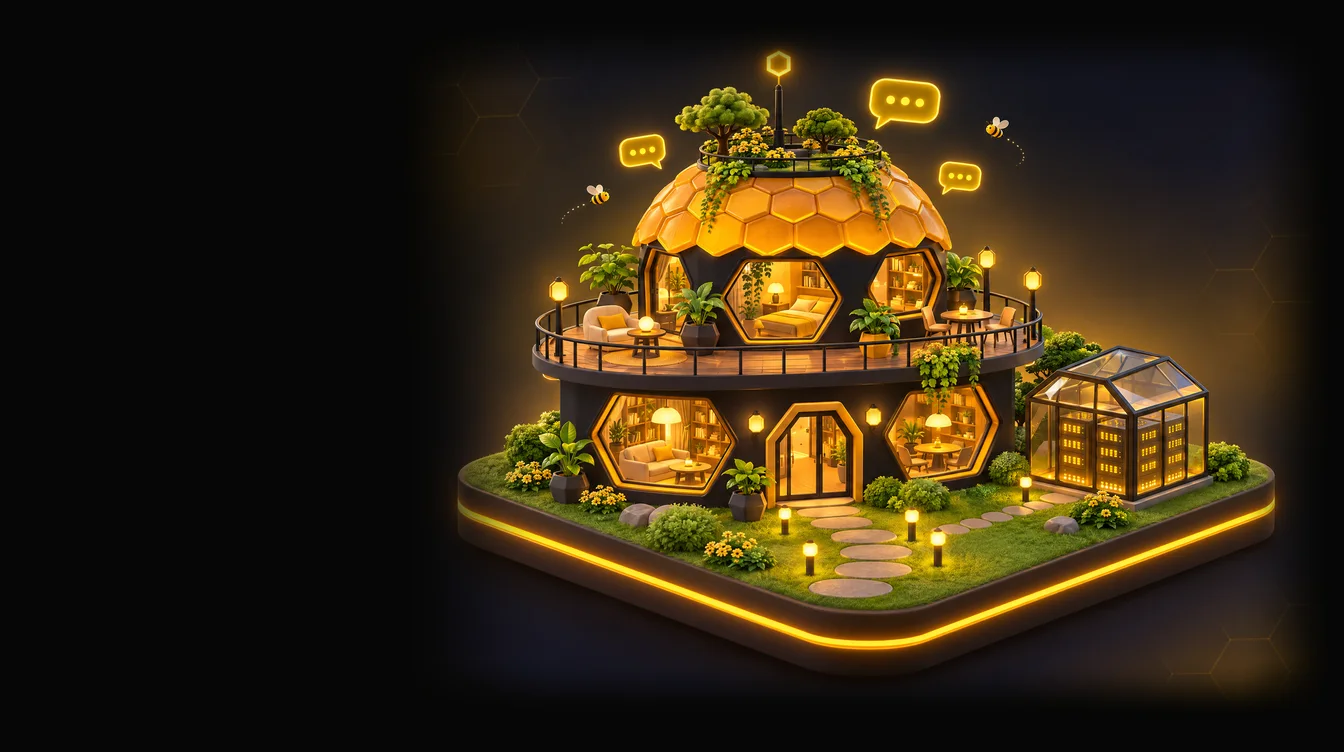
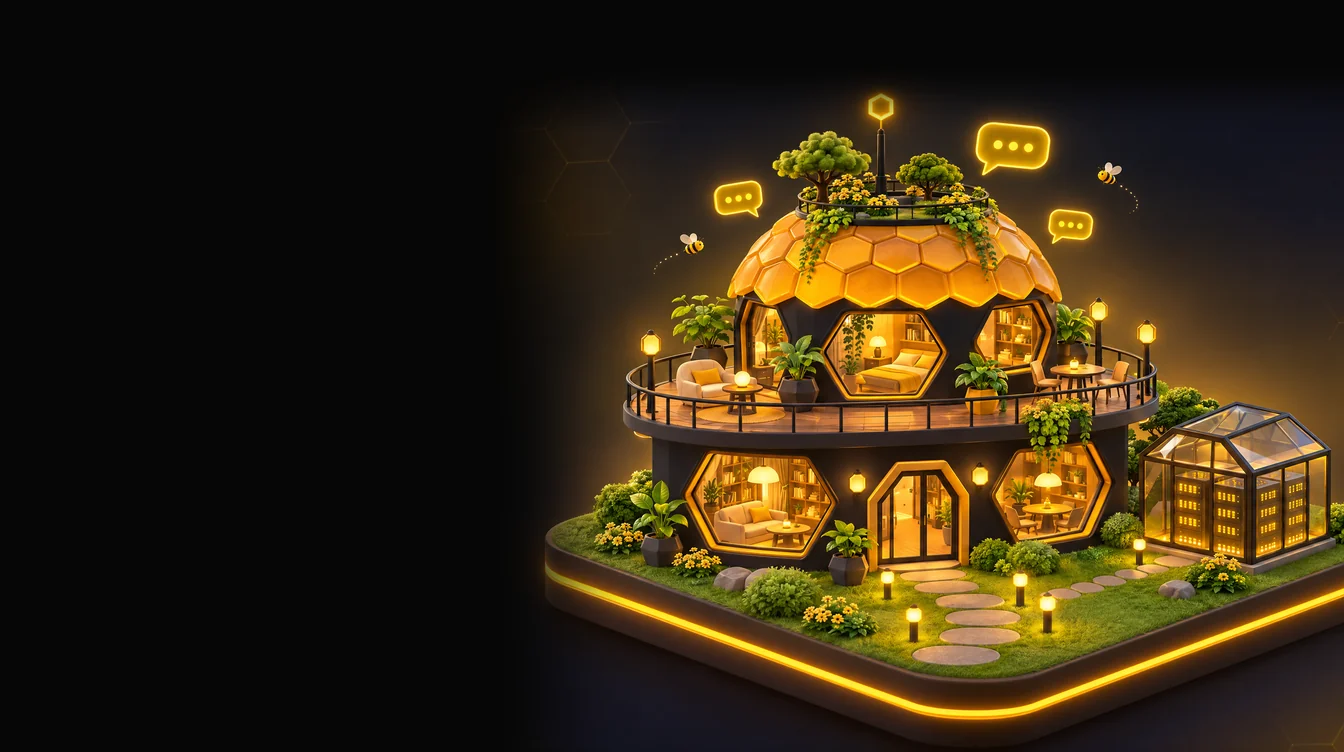
Site: Dome House header placed like the old one (house on the right, fills the height)

diff --git a/site/index.html b/site/index.html
@@ -564,17 +564,17 @@ section > h2:not(.lv-title)::before, .new-head h2::before, .status-head h2::befo
 .band-art { border-radius: 16px; overflow: hidden; }
 .band-art .win { border-radius: 16px; }
 /* Dome House hero (28 Nov): effects moved onto the new picture */
-.scene-e .fx.beacon{left:55%;top:3.4%;width:5.8%;height:10%}
-.scene-e .fx.home{left:46.8%;top:12%;width:24%;height:34%}
-.scene-e .fx.m1{left:44.45%;top:14.15%}
-.scene-e .fx.m2{left:64.05%;top:7.55%}
-.scene-e .fx.m3{left:68.15%;top:17.75%}
+.scene-e .fx.beacon{left:62.45%;top:8.91%;width:6.07%;height:10.47%}
+.scene-e .fx.home{left:53.86%;top:17.92%;width:25.13%;height:35.6%}
+.scene-e .fx.m1{left:51.4%;top:20.17%}
+.scene-e .fx.m2{left:71.93%;top:13.26%}
+.scene-e .fx.m3{left:76.22%;top:23.94%}
+.scene-e .set2 .pin.svc { flex-direction: row-reverse; transform: translate(calc(-100% + 4px), -50%); text-align: right; }
+.scene-e .set2 .pin.svc s { background: linear-gradient(270deg, rgba(255,215,110,.85), rgba(255,215,110,.15)); }
 @media (max-width: 860px) {
-  .scene-e .sc-stage { width: 150%; margin-left: -45%; }
+  .scene-e .sc-stage { width: 150%; margin-left: -50%; }
   .scene-e .set2 .pin.live:not(.l) { flex-direction: row; transform: translate(-4px, -50%); text-align: left; }
   .scene-e .set2 .pin.live:not(.l) s { background: linear-gradient(90deg, rgba(255,215,110,.85), rgba(255,215,110,.15)); }
-  .scene-e .set2 .pin.svc { flex-direction: row-reverse; transform: translate(calc(-100% + 4px), -50%); text-align: right; }
-  .scene-e .set2 .pin.svc s { background: linear-gradient(270deg, rgba(255,215,110,.85), rgba(255,215,110,.15)); }
 }
 </style>
 <style id="polish-mock">
@@ -655,7 +655,7 @@ section>h2,.new-head h2,.status-head h2{font-size:clamp(28px,3.2vw,38px);letter-
         <a class="btn" href="#services"><svg aria-hidden="true"><use href="#i-code"/></svg>What it does</a>
         <a class="btn chat-btn" href="https://chat.beeircd.org/"><span class="chat-dot" aria-hidden="true"></span>Chat with us</a>
       </div>
-    </div><div class="crop"><div class="sc-stage"><img class="art" src="art/dome.webp" alt="A night diorama: a honey-dome server house on a floating island with a glowing gold edge, a glass server room, bees and chat bubbles" width="1344" height="752"><div class="fx home"></div><div class="fx beacon"></div><div class="fx glow m1"></div><div class="fx glow m2"></div><div class="fx glow m3"></div><span class="set2"><a class="pin " style="--x:69.2%;--y:29%" href="#services"><i></i><s></s><span><b>Your server</b><em data-live="v0">BeeIRCd 1.6.0</em></span></a><a class="pin svc" style="--x:86%;--y:47%" href="#services"><i></i><s></s><span><b>Services</b></span></a><a class="pin live" style="--x:70%;--y:12%" href="#live"><i></i><s></s><span><b>Messages</b><em data-live="all">97 people online</em></span></a><a class="pin live l" style="--x:57.9%;--y:6.5%" href="#live"><i></i><s></s><span><b>Live beacon</b><em data-live="link">linked</em></span></a></span></div></div></div>
+    </div><div class="crop"><div class="sc-stage"><img class="art" src="art/dome.webp" alt="A night diorama: a honey-dome server house on a floating island with a glowing gold edge, a glass server room, bees and chat bubbles" width="1344" height="752"><div class="fx home"></div><div class="fx beacon"></div><div class="fx glow m1"></div><div class="fx glow m2"></div><div class="fx glow m3"></div><span class="set2"><a class="pin " style="--x:77.32%;--y:35.72%" href="#services"><i></i><s></s><span><b>Your server</b><em data-live="v0">BeeIRCd 1.6.0</em></span></a><a class="pin svc" style="--x:94.91%;--y:54.57%" href="#services"><i></i><s></s><span><b>Services</b></span></a><a class="pin live" style="--x:78.16%;--y:17.92%" href="#live"><i></i><s></s><span><b>Messages</b><em data-live="all">97 people online</em></span></a><a class="pin live l" style="--x:65.49%;--y:12.16%" href="#live"><i></i><s></s><span><b>Live beacon</b><em data-live="link">linked</em></span></a></span></div></div></div>
 <div class="wrap after-scene">    <div class="session" id="session" role="img" aria-label="An IRC client connected to BeeIRCd: identifying to NickServ, registering a channel with ChanServ and changing a setting with AdminServ.">
       <div class="tb" aria-hidden="true"><div class="lights"><i></i><i></i><i></i></div><div class="title"><svg viewBox="0 0 11 12" fill="none" stroke="currentColor" stroke-width="1.4" aria-hidden="true"><rect x="1" y="5" width="9" height="6" rx="1"/><path d="M3 5V3.5a2.5 2.5 0 0 1 5 0V5"/></svg><b>#beeircd</b>irc.beeircd.org</div><div></div></div>
       <div class="body" aria-hidden="true">
